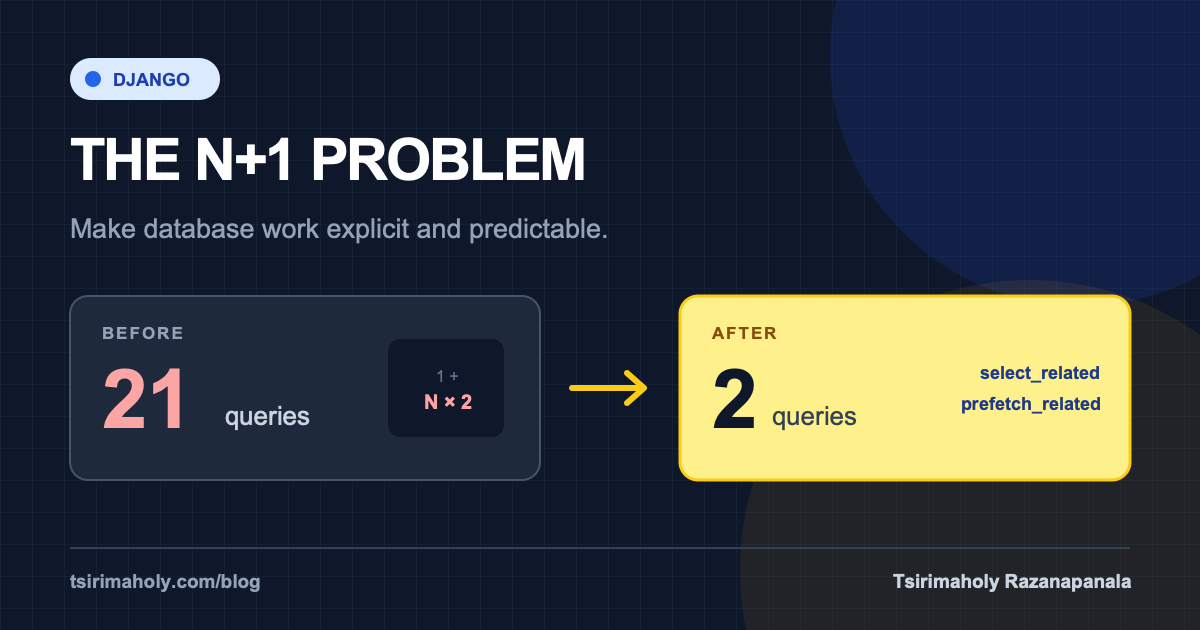
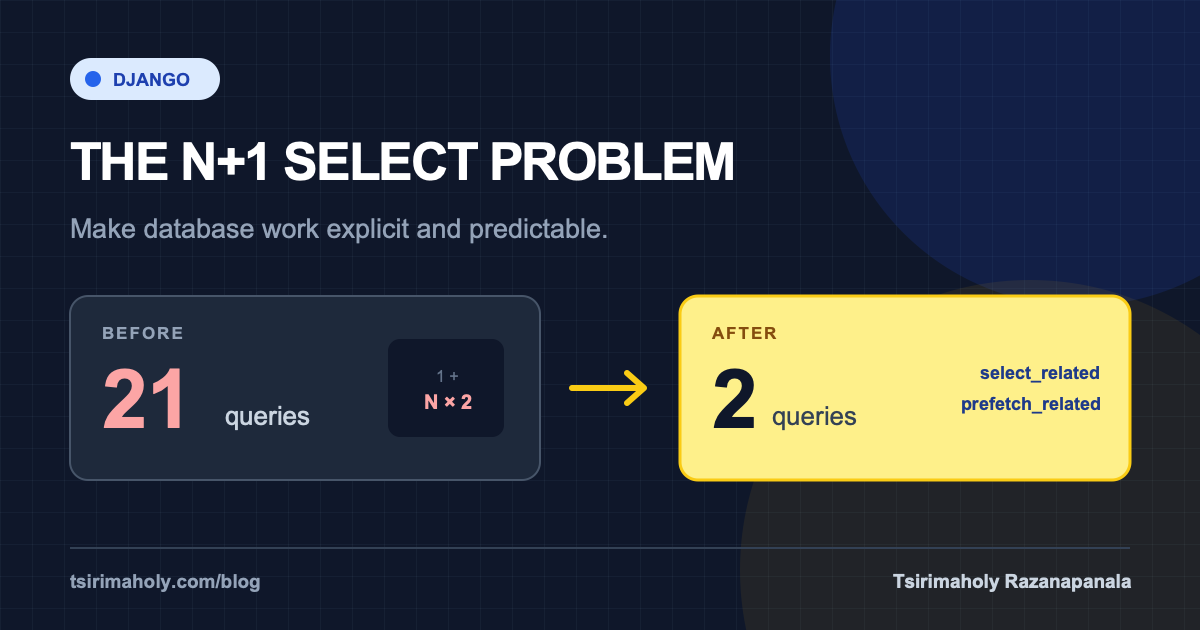
Use N+1 select problem terminology

Changed region(s): [[0.0617, 0.2111, 0.6167, 0.3016]]

diff --git a/app/routes/django-n-plus-one-problem.tsx b/app/routes/django-n-plus-one-problem.tsx
@@ -23,17 +23,18 @@ const articleUrl = `${SITE_URL}/blog/${post.slug}`;
 export function meta(_args: Route.MetaArgs) {
 	return [
 		...generateMetaTags({
-			title: `${post.title} | Tsirimaholy`,
+			title: "Django N+1 Select Problem: From 21 Queries to 2",
 			description: post.excerpt,
 			url: articleUrl,
 			image: `${SITE_URL}${post.image}`,
-			imageAlt: "Django N+1 queries reduced from 21 to 2",
+			imageAlt: "Django N+1 select problem reduced from 21 queries to 2",
 			type: "article",
 			author: "Tsirimaholy Harison Razanapanala",
 			publishedTime: post.publishedAt,
 			modifiedTime: post.modifiedAt,
 			keywords: [
-				"Django N+1 problem",
+				"Django N+1 select problem",
+				"N+1 select",
 				"select_related",
 				"prefetch_related",
 				"Django ORM performance",
@@ -109,7 +110,7 @@ export default function DjangoNPlusOneArticle() {
 							<span className="text-gray-500">Real-world case study</span>
 						</div>
 						<h1 className="mt-6 max-w-4xl text-4xl font-bold leading-tight font-shadow-into-light md:text-6xl">
-							The Django N+1 Problem: From 21 Queries to 2
+							The Django N+1 Select Problem: From 21 Queries to 2
 						</h1>
 						<p className="mt-6 max-w-3xl text-xl leading-8 text-gray-600">
 							An innocent loop can quietly turn one database query into
@@ -152,7 +153,7 @@ export default function DjangoNPlusOneArticle() {
 											className="hover:text-primary"
 											href="#what-is-n-plus-one"
 										>
-											What N+1 means
+											What N+1 select means
 										</a>
 									</li>
 									<li>
@@ -185,9 +186,9 @@ export default function DjangoNPlusOneArticle() {
 						<div className="min-w-0 text-lg leading-8 text-gray-700">
 							<section id="what-is-n-plus-one" className="scroll-mt-28">
 								<p className="text-xl leading-9 text-gray-800">
-									The N+1 problem happens when an application runs one query to
-									load a collection, then runs another query for every item in
-									that collection to load related data.
+									The N+1 select problem happens when an application runs one
+									query to load a collection, then runs another query for every
+									item in that collection to load related data.
 								</p>
 								<div className="my-8 rounded-xl border-l-4 border-primary bg-blue-50 p-5 text-blue-950">
 									<p className="font-semibold">The context</p>
@@ -462,9 +463,10 @@ for user in users:
 										aria-hidden="true"
 									/>
 									<p>
-										GraphQL does not remove N+1 by itself. A GraphQL resolver
-										can create the same pattern unless the server batches and
-										caches loads with a tool such as DataLoader.
+										GraphQL does not remove the N+1 select problem by itself. A
+										GraphQL resolver can create the same pattern unless the
+										server batches and caches loads with a tool such as
+										DataLoader.
 									</p>
 								</div>
 							</section>

diff --git a/app/content/blog-posts.ts b/app/content/blog-posts.ts
@@ -1,9 +1,9 @@
 export const blogPosts = [
 	{
 		slug: "django-n-plus-one-problem",
-		title: "The Django N+1 Problem: From 21 Queries to 2",
+		title: "The Django N+1 Select Problem: From 21 Queries to 2",
 		excerpt:
-			"A practical guide to finding N+1 queries and choosing between select_related and prefetch_related, based on a real user-management API.",
+			"A practical guide to the N+1 select problem and choosing between select_related and prefetch_related, based on a real user-management API.",
 		category: "Django",
 		readTime: "8 min read",
 		publishedAt: "2026-08-31",
